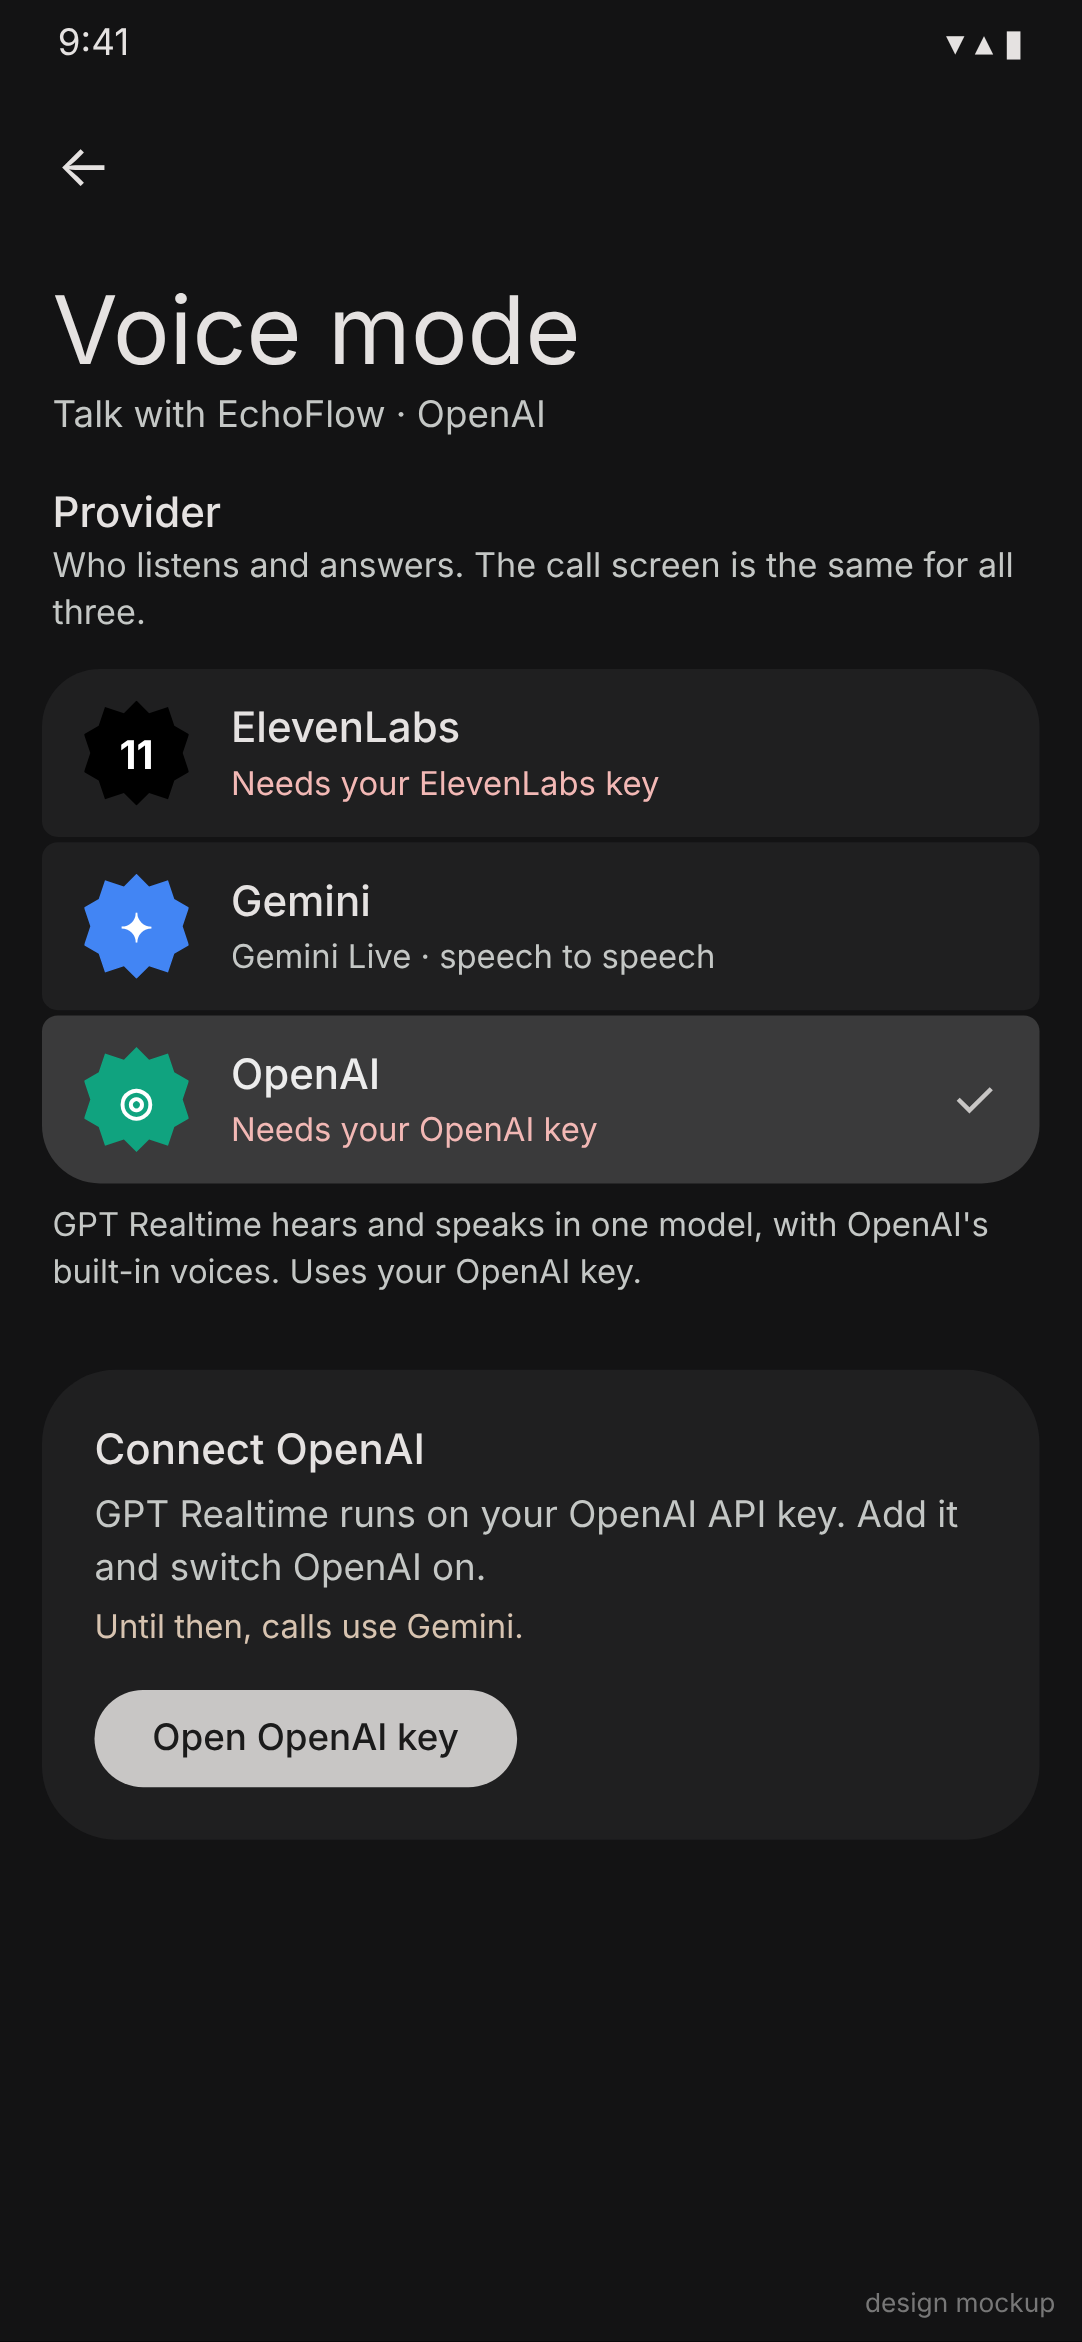
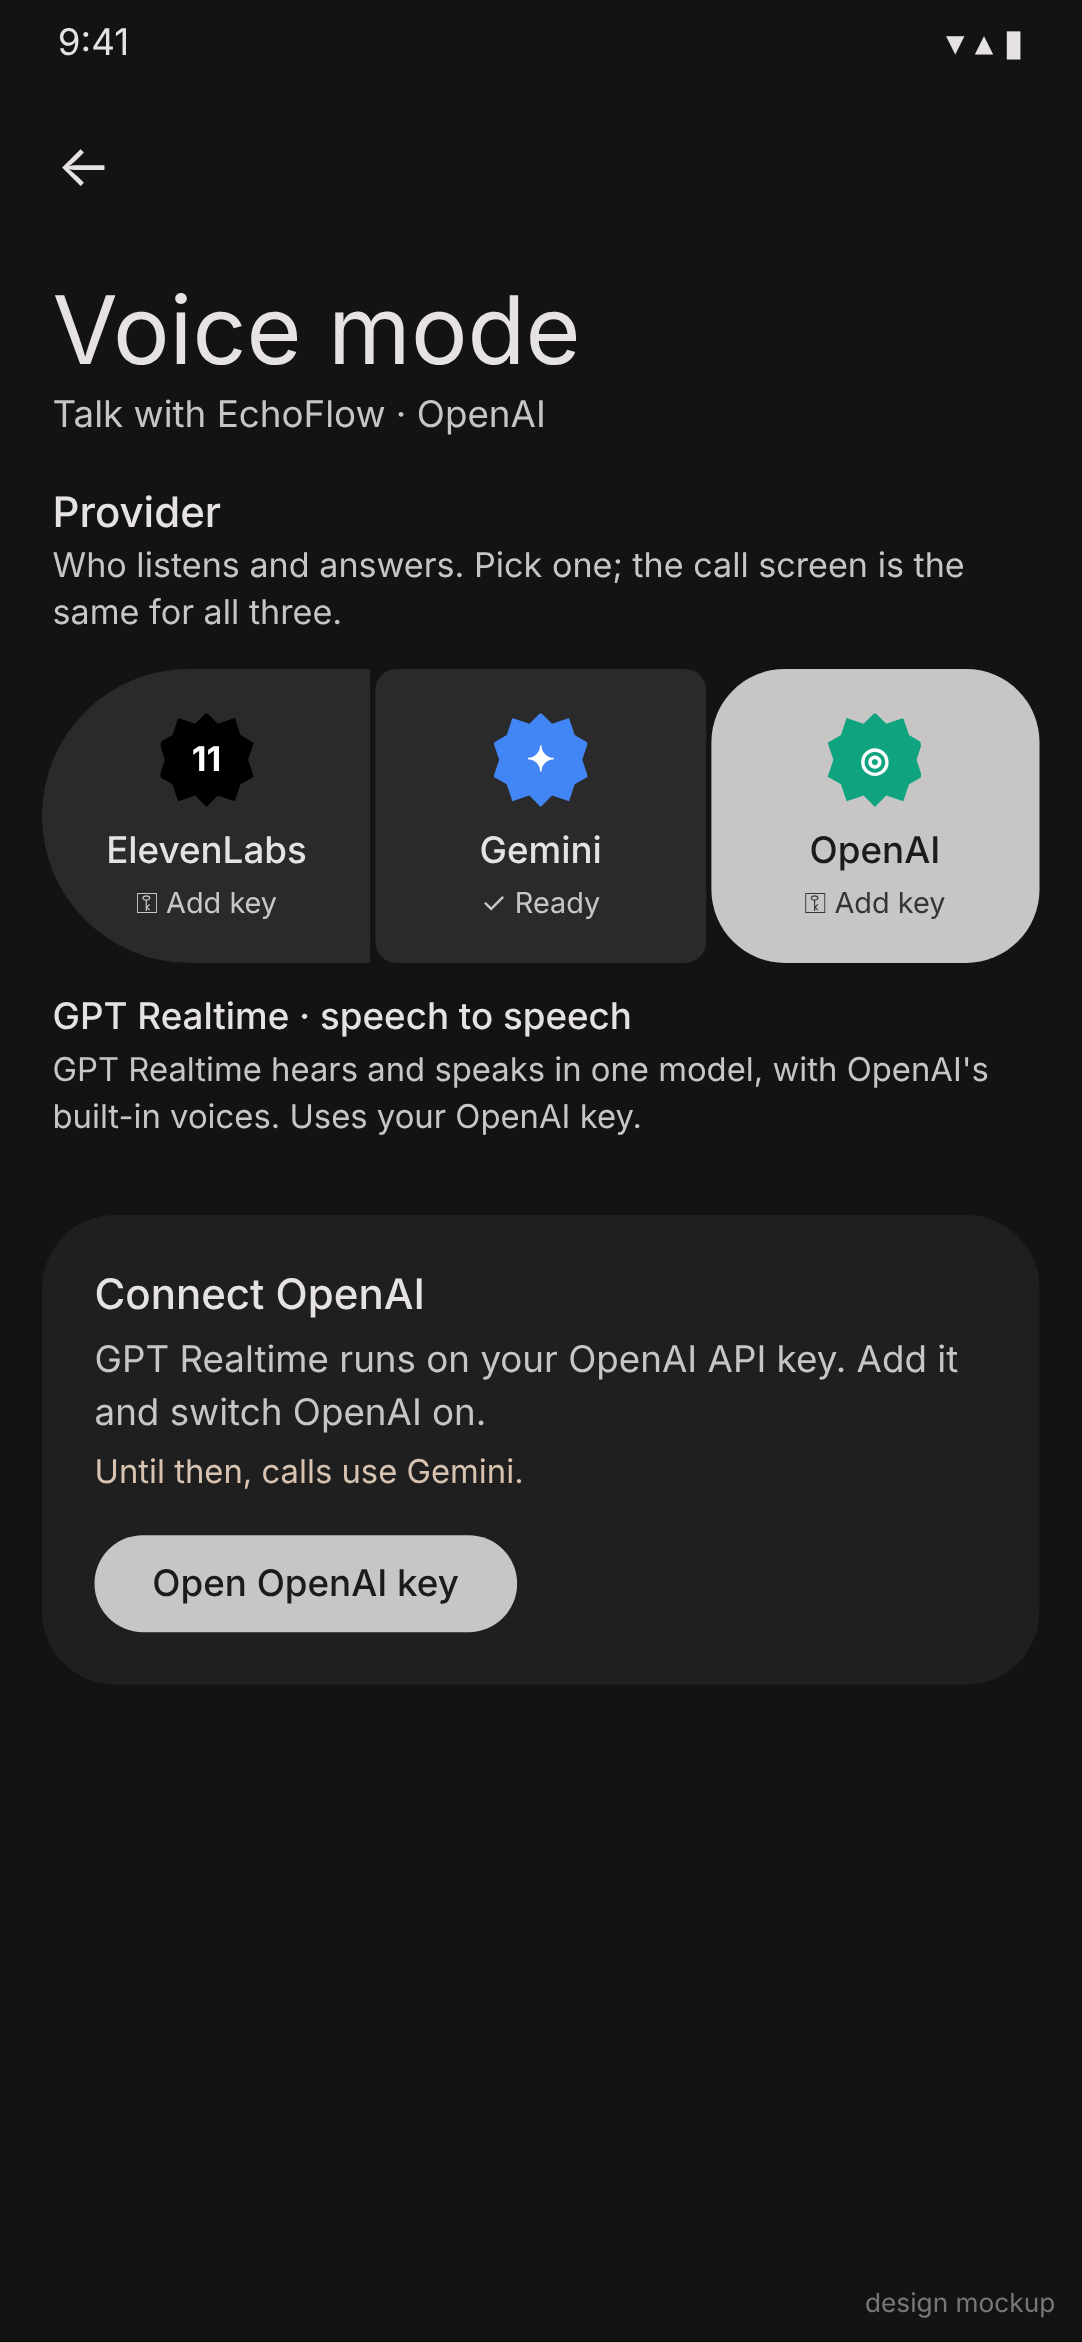
Voice mode settings: provider switcher as a connected button group
ElevenLabs, Gemini and OpenAI sit side by side as M3 Expressive toggle
buttons with their logo and key status (Ready / Add key). The picked
provider's settings show below. Mockups updated.

diff --git a/app/src/main/java/com/echoflow/ui/screens/settings/SettingsVoiceMode.kt b/app/src/main/java/com/echoflow/ui/screens/settings/SettingsVoiceMode.kt
@@ -25,8 +25,10 @@ import androidx.compose.material.icons.Icons
 import androidx.compose.material.icons.filled.AutoAwesome
 import androidx.compose.material.icons.filled.Bolt
 import androidx.compose.material.icons.filled.Check
+import androidx.compose.material.icons.filled.CheckCircle
 import androidx.compose.material.icons.filled.ChevronRight
 import androidx.compose.material.icons.filled.Close
+import androidx.compose.material.icons.filled.Key
 import androidx.compose.material.icons.filled.Language
 import androidx.compose.material.icons.filled.LibraryMusic
 import androidx.compose.material.icons.filled.Person
@@ -36,6 +38,7 @@ import androidx.compose.material.icons.filled.Search
 import androidx.compose.material.icons.filled.SmartToy
 import androidx.compose.material.icons.filled.Stop
 import androidx.compose.material3.Button
+import androidx.compose.material3.ButtonGroupDefaults
 import androidx.compose.material3.ExperimentalMaterial3Api
 import androidx.compose.material3.ExperimentalMaterial3ExpressiveApi
 import androidx.compose.material3.Icon
@@ -48,6 +51,7 @@ import androidx.compose.material3.ModalBottomSheet
 import androidx.compose.material3.OutlinedTextField
 import androidx.compose.material3.Surface
 import androidx.compose.material3.Text
+import androidx.compose.material3.ToggleButton
 import androidx.compose.material3.rememberModalBottomSheetState
 import androidx.compose.runtime.Composable
 import androidx.compose.runtime.LaunchedEffect
@@ -66,6 +70,7 @@ import androidx.compose.ui.graphics.vector.ImageVector
 import androidx.compose.ui.semantics.Role
 import androidx.compose.ui.semantics.role
 import androidx.compose.ui.semantics.semantics
+import androidx.compose.ui.semantics.stateDescription
 import androidx.compose.ui.text.input.ImeAction
 import androidx.compose.ui.text.style.TextOverflow
 import androidx.compose.ui.unit.dp
@@ -128,22 +133,25 @@ internal fun VoiceModePage(
     var llmsExpanded by rememberSaveable { mutableStateOf(false) }
 
     SettingsPageScaffold(title = "Voice mode", subtitle = "Talk with EchoFlow · ${picked.label}", onBack = onBack) {
-        PageSection("Provider", "Who listens and answers. The call screen is the same for all three.")
-        Column(verticalArrangement = Arrangement.spacedBy(GroupedItemGap)) {
-            VoiceProvider.entries.forEachIndexed { index, provider ->
-                ProviderRow(
-                    provider = provider,
-                    selected = provider == picked,
-                    status = when {
-                        keys.ready(provider) -> null
-                        provider == VoiceProvider.ElevenLabs && verifying -> "Checking your key…"
-                        else -> "Needs your ${provider.label} key"
-                    },
-                    index = index, count = VoiceProvider.entries.size,
-                    onClick = { voiceViewModel.saveProvider(provider) },
-                )
-            }
-        }
+        PageSection("Provider", "Who listens and answers. Pick one; the call screen is the same for all three.")
+        VoiceProviderSelector(
+            picked = picked,
+            status = { provider ->
+                when {
+                    keys.ready(provider) -> "Ready"
+                    provider == VoiceProvider.ElevenLabs && verifying -> "Checking…"
+                    else -> "Add key"
+                }
+            },
+            ready = keys::ready,
+            onSelect = { voiceViewModel.saveProvider(it) },
+        )
+        Spacer(Modifier.height(Spacing.m))
+        Text(
+            picked.engine(),
+            style = MaterialTheme.typography.titleSmall,
+            modifier = Modifier.padding(horizontal = Spacing.xs),
+        )
         Spacer(Modifier.height(Spacing.s))
         Text(
             picked.blurb,
@@ -320,44 +328,58 @@ internal fun VoiceModePage(
     }
 }
 
-/** One provider to pick: its logo, name, and what's missing when it can't run yet. */
+/**
+ * The provider switcher: an M3 Expressive connected button group with one tall toggle per
+ * provider (logo, name, and whether its key is ready). The picked one fills with primary.
+ */
 @Composable
-private fun ProviderRow(
-    provider: VoiceProvider,
-    selected: Boolean,
-    status: String?,
-    index: Int,
-    count: Int,
-    onClick: () -> Unit,
+private fun VoiceProviderSelector(
+    picked: VoiceProvider,
+    status: (VoiceProvider) -> String,
+    ready: (VoiceProvider) -> Boolean,
+    onSelect: (VoiceProvider) -> Unit,
 ) {
-    Surface(
-        onClick = onClick,
-        shape = groupedItemShape(index, count),
-        color = if (selected) MaterialTheme.colorScheme.primaryContainer else MaterialTheme.colorScheme.surfaceContainer,
-        contentColor = if (selected) MaterialTheme.colorScheme.onPrimaryContainer else MaterialTheme.colorScheme.onSurface,
-        modifier = Modifier.fillMaxWidth().semantics { role = Role.RadioButton },
+    val options = VoiceProvider.entries
+    Row(
+        Modifier.fillMaxWidth(),
+        horizontalArrangement = Arrangement.spacedBy(ButtonGroupDefaults.ConnectedSpaceBetween),
     ) {
-        Row(
-            Modifier.padding(horizontal = Spacing.base, vertical = Spacing.m),
-            verticalAlignment = Alignment.CenterVertically,
-        ) {
-            ProviderLogo(directProviderBrand(provider.keyProvider()), size = 40.dp)
-            Spacer(Modifier.width(Spacing.base))
-            Column(Modifier.weight(1f)) {
-                Text(provider.label, style = MaterialTheme.typography.titleMedium)
-                Text(
-                    status ?: provider.engine(),
-                    style = MaterialTheme.typography.bodySmall,
-                    color = when {
-                        status != null -> MaterialTheme.colorScheme.error
-                        selected -> MaterialTheme.colorScheme.onPrimaryContainer
-                        else -> MaterialTheme.colorScheme.onSurfaceVariant
+        options.forEachIndexed { index, provider ->
+            val checked = provider == picked
+            val label = status(provider)
+            ToggleButton(
+                checked = checked,
+                onCheckedChange = { if (it) onSelect(provider) },
+                shapes = when (index) {
+                    0 -> ButtonGroupDefaults.connectedLeadingButtonShapes()
+                    options.lastIndex -> ButtonGroupDefaults.connectedTrailingButtonShapes()
+                    else -> ButtonGroupDefaults.connectedMiddleButtonShapes()
+                },
+                contentPadding = PaddingValues(horizontal = Spacing.xs, vertical = Spacing.m),
+                modifier = Modifier
+                    .weight(1f)
+                    .heightIn(min = 112.dp)
+                    .semantics {
+                        role = Role.RadioButton
+                        stateDescription = label
                     },
-                    maxLines = 1,
-                    overflow = TextOverflow.Ellipsis,
-                )
+            ) {
+                Column(horizontalAlignment = Alignment.CenterHorizontally) {
+                    ProviderLogo(directProviderBrand(provider.keyProvider()), size = 36.dp)
+                    Spacer(Modifier.height(Spacing.s))
+                    Text(provider.label, style = MaterialTheme.typography.titleSmall, maxLines = 1)
+                    Spacer(Modifier.height(2.dp))
+                    Row(verticalAlignment = Alignment.CenterVertically) {
+                        Icon(
+                            if (ready(provider)) Icons.Default.CheckCircle else Icons.Default.Key,
+                            contentDescription = null,
+                            modifier = Modifier.size(12.dp),
+                        )
+                        Spacer(Modifier.width(2.dp))
+                        Text(label, style = MaterialTheme.typography.labelSmall, maxLines = 1)
+                    }
+                }
             }
-            if (selected) Icon(Icons.Default.Check, "Selected", tint = MaterialTheme.colorScheme.primary)
         }
     }
 }
@@ -368,7 +390,7 @@ private fun VoiceProvider.keyProvider(): CustomModelProvider = when (this) {
     VoiceProvider.OpenAi -> CustomModelProvider.OpenAi
 }
 
-/** What runs the call, in a few words, for the provider row. */
+/** What runs the call, in a few words, under the provider switcher. */
 private fun VoiceProvider.engine(): String = when (this) {
     VoiceProvider.ElevenLabs -> "Agents · your pick of LLM and voice"
     VoiceProvider.Gemini -> "Gemini Live · speech to speech"
